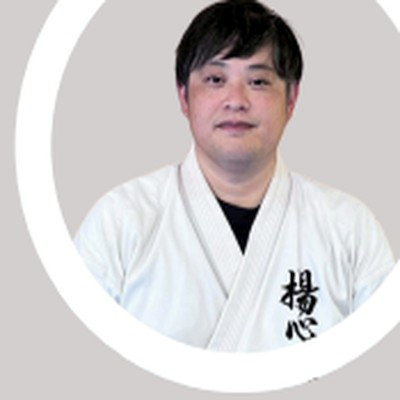
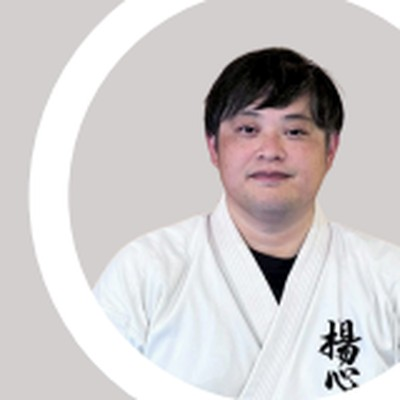
写真再クロップ + object-positionで顔中心に調整（全17名）

diff --git a/instructors.html b/instructors.html
@@ -68,7 +68,7 @@
 
       <div class="card-grid fade-in">
         <div class="card card--instructor">
-          <img class="card__avatar" src="assets/images/instructors/hashiyama_kenryu.jpg" alt="枦山 拳龍" style="width: 120px; height: 120px; border-radius: 50%; object-fit: cover; margin: 0 auto var(--space-sm);">
+          <img class="card__avatar" src="assets/images/instructors/hashiyama_kenryu.jpg" alt="枦山 拳龍" style="width: 120px; height: 120px; border-radius: 50%; object-fit: cover; object-position: 40% 25%; margin: 0 auto var(--space-sm);">
           <h3 class="card__name">枦山 拳龍</h3>
           <span class="card__role">開祖（創師）・十段範士</span>
           <p class="card__text">
@@ -78,7 +78,7 @@
         </div>
 
         <div class="card card--instructor">
-          <img class="card__avatar" src="assets/images/instructors/minamitani_kenryu.jpg" alt="南谷 拳龍" style="width: 120px; height: 120px; border-radius: 50%; object-fit: cover; margin: 0 auto var(--space-sm);">
+          <img class="card__avatar" src="assets/images/instructors/minamitani_kenryu.jpg" alt="南谷 拳龍" style="width: 120px; height: 120px; border-radius: 50%; object-fit: cover; object-position: 45% 30%; margin: 0 auto var(--space-sm);">
           <h3 class="card__name">南谷 拳龍</h3>
           <span class="card__role">第弐代宗師・十段範士</span>
           <p class="card__text">
@@ -99,43 +99,43 @@
 
       <div class="card-grid--3col card-grid fade-in">
         <div class="card card--instructor">
-          <img class="card__avatar" src="assets/images/instructors/kidosaki_akiyoshi.jpg" alt="城戸﨑 彰良" style="width: 120px; height: 120px; border-radius: 50%; object-fit: cover; margin: 0 auto var(--space-sm);">
+          <img class="card__avatar" src="assets/images/instructors/kidosaki_akiyoshi.jpg" alt="城戸﨑 彰良" style="width: 120px; height: 120px; border-radius: 50%; object-fit: cover; object-position: 60% 30%; margin: 0 auto var(--space-sm);">
           <h3 class="card__name">城戸﨑 彰良</h3>
           <span class="card__role">鹿屋地区本部長</span>
         </div>
 
         <div class="card card--instructor">
-          <img class="card__avatar" src="assets/images/instructors/taira_shizuo.jpg" alt="平良 静男" style="width: 120px; height: 120px; border-radius: 50%; object-fit: cover; margin: 0 auto var(--space-sm);">
+          <img class="card__avatar" src="assets/images/instructors/taira_shizuo.jpg" alt="平良 静男" style="width: 120px; height: 120px; border-radius: 50%; object-fit: cover; object-position: 50% 30%; margin: 0 auto var(--space-sm);">
           <h3 class="card__name">平良 静男</h3>
           <span class="card__role">首席師範</span>
         </div>
 
         <div class="card card--instructor">
-          <img class="card__avatar" src="assets/images/instructors/tanaka_yasuyuki.jpg" alt="田中 康之" style="width: 120px; height: 120px; border-radius: 50%; object-fit: cover; margin: 0 auto var(--space-sm);">
+          <img class="card__avatar" src="assets/images/instructors/tanaka_yasuyuki.jpg" alt="田中 康之" style="width: 120px; height: 120px; border-radius: 50%; object-fit: cover; object-position: 45% 30%; margin: 0 auto var(--space-sm);">
           <h3 class="card__name">田中 康之</h3>
           <span class="card__role">理事長・錦江支部長</span>
         </div>
 
         <div class="card card--instructor">
-          <img class="card__avatar" src="assets/images/instructors/oozutsumi_saiske.jpg" alt="大堤 斉亮" style="width: 120px; height: 120px; border-radius: 50%; object-fit: cover; margin: 0 auto var(--space-sm);">
+          <img class="card__avatar" src="assets/images/instructors/oozutsumi_saiske.jpg" alt="大堤 斉亮" style="width: 120px; height: 120px; border-radius: 50%; object-fit: cover; object-position: 55% 30%; margin: 0 auto var(--space-sm);">
           <h3 class="card__name">大堤 斉亮</h3>
           <span class="card__role">鹿屋武道館・メルヘン支部長</span>
         </div>
 
         <div class="card card--instructor">
-          <img class="card__avatar" src="assets/images/instructors/minamitani_tomohiro.jpg" alt="南谷 知宏" style="width: 120px; height: 120px; border-radius: 50%; object-fit: cover; margin: 0 auto var(--space-sm);">
+          <img class="card__avatar" src="assets/images/instructors/minamitani_tomohiro.jpg" alt="南谷 知宏" style="width: 120px; height: 120px; border-radius: 50%; object-fit: cover; object-position: 55% 30%; margin: 0 auto var(--space-sm);">
           <h3 class="card__name">南谷 知宏</h3>
           <span class="card__role">笠之原支部長</span>
         </div>
 
         <div class="card card--instructor">
-          <img class="card__avatar" src="assets/images/instructors/tanabe_masaki.jpg" alt="田邉 正輝" style="width: 120px; height: 120px; border-radius: 50%; object-fit: cover; margin: 0 auto var(--space-sm);">
+          <img class="card__avatar" src="assets/images/instructors/tanabe_masaki.jpg" alt="田邉 正輝" style="width: 120px; height: 120px; border-radius: 50%; object-fit: cover; object-position: 55% 30%; margin: 0 auto var(--space-sm);">
           <h3 class="card__name">田邉 正輝</h3>
           <span class="card__role">佐多支部長</span>
         </div>
 
         <div class="card card--instructor">
-          <img class="card__avatar" src="assets/images/instructors/matsumoto_chizuru.jpg" alt="松元 千鶴" style="width: 120px; height: 120px; border-radius: 50%; object-fit: cover; margin: 0 auto var(--space-sm);">
+          <img class="card__avatar" src="assets/images/instructors/matsumoto_chizuru.jpg" alt="松元 千鶴" style="width: 120px; height: 120px; border-radius: 50%; object-fit: cover; object-position: 50% 25%; margin: 0 auto var(--space-sm);">
           <h3 class="card__name">松元 千鶴</h3>
           <span class="card__role">師範</span>
         </div>
@@ -153,49 +153,49 @@
 
       <div class="card-grid--3col card-grid fade-in">
         <div class="card card--instructor">
-          <img class="card__avatar" src="assets/images/instructors/kidosaki_aisa.jpg" alt="城戸﨑 愛紗" style="width: 120px; height: 120px; border-radius: 50%; object-fit: cover; margin: 0 auto var(--space-sm);">
+          <img class="card__avatar" src="assets/images/instructors/kidosaki_aisa.jpg" alt="城戸﨑 愛紗" style="width: 120px; height: 120px; border-radius: 50%; object-fit: cover; object-position: 55% 25%; margin: 0 auto var(--space-sm);">
           <h3 class="card__name">城戸﨑 愛紗</h3>
           <span class="card__role">鹿屋地区本部指導員</span>
         </div>
 
         <div class="card card--instructor">
-          <img class="card__avatar" src="assets/images/instructors/maeda_kaede.jpg" alt="前田 楓" style="width: 120px; height: 120px; border-radius: 50%; object-fit: cover; margin: 0 auto var(--space-sm);">
+          <img class="card__avatar" src="assets/images/instructors/maeda_kaede.jpg" alt="前田 楓" style="width: 120px; height: 120px; border-radius: 50%; object-fit: cover; object-position: 55% 25%; margin: 0 auto var(--space-sm);">
           <h3 class="card__name">前田 楓</h3>
           <span class="card__role">鹿屋地区本部指導員</span>
         </div>
 
         <div class="card card--instructor">
-          <img class="card__avatar" src="assets/images/instructors/minamitani_takesho.jpg" alt="南谷 武省" style="width: 120px; height: 120px; border-radius: 50%; object-fit: cover; margin: 0 auto var(--space-sm);">
+          <img class="card__avatar" src="assets/images/instructors/minamitani_takesho.jpg" alt="南谷 武省" style="width: 120px; height: 120px; border-radius: 50%; object-fit: cover; object-position: 55% 30%; margin: 0 auto var(--space-sm);">
           <h3 class="card__name">南谷 武省</h3>
           <span class="card__role">鹿児島地区指導員</span>
         </div>
 
         <div class="card card--instructor">
-          <img class="card__avatar" src="assets/images/instructors/takemoto_ryosuke.jpg" alt="武元 亮介" style="width: 120px; height: 120px; border-radius: 50%; object-fit: cover; margin: 0 auto var(--space-sm);">
+          <img class="card__avatar" src="assets/images/instructors/takemoto_ryosuke.jpg" alt="武元 亮介" style="width: 120px; height: 120px; border-radius: 50%; object-fit: cover; object-position: 50% 30%; margin: 0 auto var(--space-sm);">
           <h3 class="card__name">武元 亮介</h3>
           <span class="card__role">霧島地区本部指導員</span>
         </div>
 
         <div class="card card--instructor">
-          <img class="card__avatar" src="assets/images/instructors/nishimuta_hiroyuki.jpg" alt="西牟田 浩之" style="width: 120px; height: 120px; border-radius: 50%; object-fit: cover; margin: 0 auto var(--space-sm);">
+          <img class="card__avatar" src="assets/images/instructors/nishimuta_hiroyuki.jpg" alt="西牟田 浩之" style="width: 120px; height: 120px; border-radius: 50%; object-fit: cover; object-position: 55% 30%; margin: 0 auto var(--space-sm);">
           <h3 class="card__name">西牟田 浩之</h3>
           <span class="card__role">鹿屋武道館指導員</span>
         </div>
 
         <div class="card card--instructor">
-          <img class="card__avatar" src="assets/images/instructors/aiba_kazuyuki.jpg" alt="相羽 和幸" style="width: 120px; height: 120px; border-radius: 50%; object-fit: cover; margin: 0 auto var(--space-sm);">
+          <img class="card__avatar" src="assets/images/instructors/aiba_kazuyuki.jpg" alt="相羽 和幸" style="width: 120px; height: 120px; border-radius: 50%; object-fit: cover; object-position: 50% 30%; margin: 0 auto var(--space-sm);">
           <h3 class="card__name">相羽 和幸</h3>
           <span class="card__role">大姶良・錦江支部指導員</span>
         </div>
 
         <div class="card card--instructor">
-          <img class="card__avatar" src="assets/images/instructors/shimonokado_rei.jpg" alt="下之角 怜" style="width: 120px; height: 120px; border-radius: 50%; object-fit: cover; margin: 0 auto var(--space-sm);">
+          <img class="card__avatar" src="assets/images/instructors/shimonokado_rei.jpg" alt="下之角 怜" style="width: 120px; height: 120px; border-radius: 50%; object-fit: cover; object-position: 55% 30%; margin: 0 auto var(--space-sm);">
           <h3 class="card__name">下之角 怜</h3>
           <span class="card__role">鹿児島地区指導員</span>
         </div>
 
         <div class="card card--instructor">
-          <img class="card__avatar" src="assets/images/instructors/sakata_ryuichi.jpg" alt="坂田 龍一" style="width: 120px; height: 120px; border-radius: 50%; object-fit: cover; margin: 0 auto var(--space-sm);">
+          <img class="card__avatar" src="assets/images/instructors/sakata_ryuichi.jpg" alt="坂田 龍一" style="width: 120px; height: 120px; border-radius: 50%; object-fit: cover; object-position: 50% 30%; margin: 0 auto var(--space-sm);">
           <h3 class="card__name">坂田 龍一</h3>
           <span class="card__role">鹿屋武道館支部指導員</span>
         </div>
